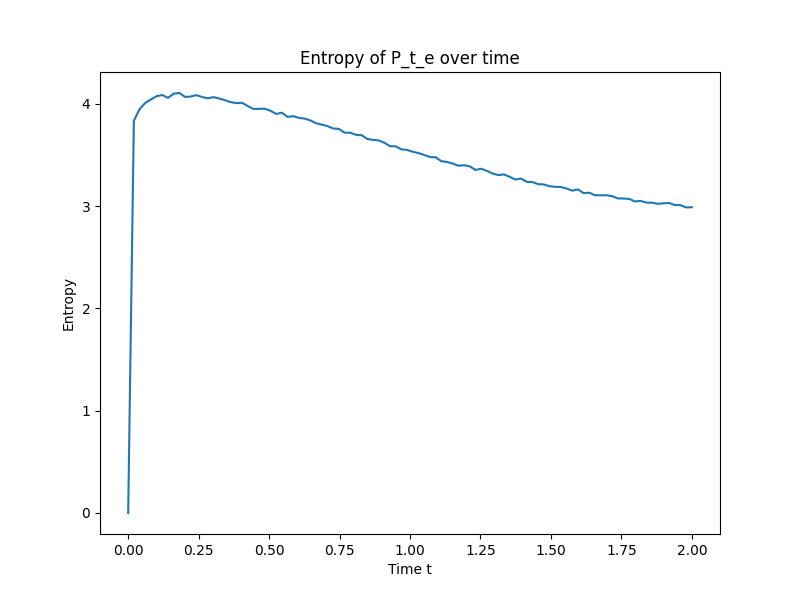
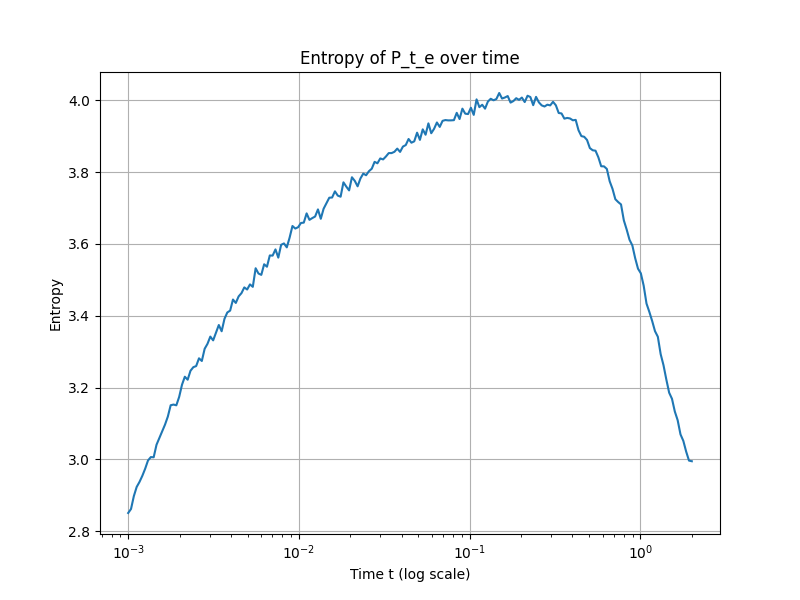
more points in log space

diff --git a/models/linear/linear_mnist.py b/models/linear/linear_mnist.py
@@ -48,7 +48,6 @@ T = 200  # Increased number of frames
 # Create timesteps in log space from 1e-3 to 2
 timesteps = torch.exp(torch.linspace(np.log(1e-3), np.log(2), T))
 
-# Calculate P_t_e and entropy
 def compute_P_t_e(x, data, t):
     """Compute P_t_e according to equation (2) in paper"""
     n = len(data)
@@ -57,8 +56,13 @@ def compute_P_t_e(x, data, t):
     P_t_e = torch.mean(torch.exp(-torch.sum(diff**2, dim=1)/(2*Delta_t))) / ((2*np.pi*Delta_t)**(x.shape[0]/2))
     return P_t_e
 
-def compute_entropy(data, t, n_samples=10000):
-    """Compute entropy of P_t_e by Monte Carlo sampling"""
+def compute_gaussian_entropy(t):
+    """Compute entropy of a standard Gaussian"""
+    d = X_pca.shape[1]  # Dimension of data
+    return d/2 * (1 + np.log(2*np.pi))
+
+def compute_entropy_and_excess(data, t, n_samples=10000):
+    """Compute entropy of P_t_e and excess entropy by Monte Carlo sampling"""
     Delta_t = 1 - torch.exp(-2*t)
     # Sample points from noisy distribution
     samples = torch.randn(n_samples, data.shape[1]) * torch.sqrt(Delta_t) + \
@@ -70,22 +74,40 @@ def compute_entropy(data, t, n_samples=10000):
         p = compute_P_t_e(x, data, t)
         if p > 0:
             entropy -= (1/n_samples) * torch.log(p)
-    return entropy.item()
+            
+    # Compute excess entropy f(t) = s(t) - s_G(t)
+    gaussian_entropy = compute_gaussian_entropy(t)
+    excess_entropy = entropy.item() - gaussian_entropy
+    
+    return entropy.item(), excess_entropy
 
-# Calculate entropy over time
+# Calculate entropy and excess entropy over time
 entropies = []
+excess_entropies = []
 for t in tqdm(timesteps):
-    entropy = compute_entropy(X_pca, t)
+    entropy, excess = compute_entropy_and_excess(X_pca, t)
     entropies.append(entropy)
+    excess_entropies.append(excess)
 
-# Plot entropy with log scale x-axis
-plt.figure(figsize=(8, 6))
-plt.semilogx(timesteps, entropies)
-plt.xlabel('Time t (log scale)')
-plt.ylabel('Entropy')
-plt.title('Entropy of P_t_e over time')
-plt.grid(True)
-plt.savefig('results/MNIST/entropy.png')
+# Plot entropy and excess entropy with log scale x-axis
+fig, (ax1, ax2) = plt.subplots(1, 2, figsize=(16, 6))
+
+ax1.semilogx(timesteps, entropies, label='Total entropy s(t)')
+ax1.semilogx(timesteps, [compute_gaussian_entropy(t) for t in timesteps], '--', label='Gaussian entropy')
+ax1.set_xlabel('Time t (log scale)')
+ax1.set_ylabel('Entropy')
+ax1.set_title('Total and Gaussian entropy over time')
+ax1.grid(True)
+ax1.legend()
+
+ax2.semilogx(timesteps, excess_entropies)
+ax2.set_xlabel('Time t (log scale)')
+ax2.set_ylabel('Excess entropy f(t)')
+ax2.set_title('Excess entropy over time')
+ax2.grid(True)
+
+plt.tight_layout()
+plt.savefig('results/MNIST/entropy_analysis.png')
 plt.close()
 
 # Setup the diffusion animation figure
@@ -96,12 +118,12 @@ scatter = ax1.scatter([], [], alpha=0.5)
 ax1.set_xlim(X_pca[:, 0].min() - 1, X_pca[:, 0].max() + 1)
 ax1.set_ylim(X_pca[:, 1].min() - 1, X_pca[:, 1].max() + 1)
 
-# Initialize entropy plot with log scale x-axis
+# Initialize excess entropy plot with log scale x-axis
 line, = ax2.semilogx([], [])
 ax2.set_xlim(1e-3, 2)
-ax2.set_ylim(min(entropies), max(entropies))
+ax2.set_ylim(min(excess_entropies), max(excess_entropies))
 ax2.set_xlabel('Time t (log scale)')
-ax2.set_ylabel('Entropy')
+ax2.set_ylabel('Excess entropy f(t)')
 ax2.grid(True)
 
 def update(frame):
@@ -113,8 +135,8 @@ def update(frame):
     scatter.set_offsets(noisy_data.numpy())
     ax1.set_title(f't = {t:.3e}')
     
-    # Update entropy plot
-    line.set_data(timesteps[:frame+1], entropies[:frame+1])
+    # Update excess entropy plot
+    line.set_data(timesteps[:frame+1], excess_entropies[:frame+1])
     
     return scatter, line
 
@@ -122,5 +144,5 @@ def update(frame):
 anim = FuncAnimation(fig, update, frames=T, interval=50, blit=True)
 
 # Save animation
-anim.save('results/MNIST/diffusion_and_entropy.gif', writer='pillow')
+anim.save('results/MNIST/diffusion_and_excess_entropy.gif', writer='pillow')
 plt.close()
